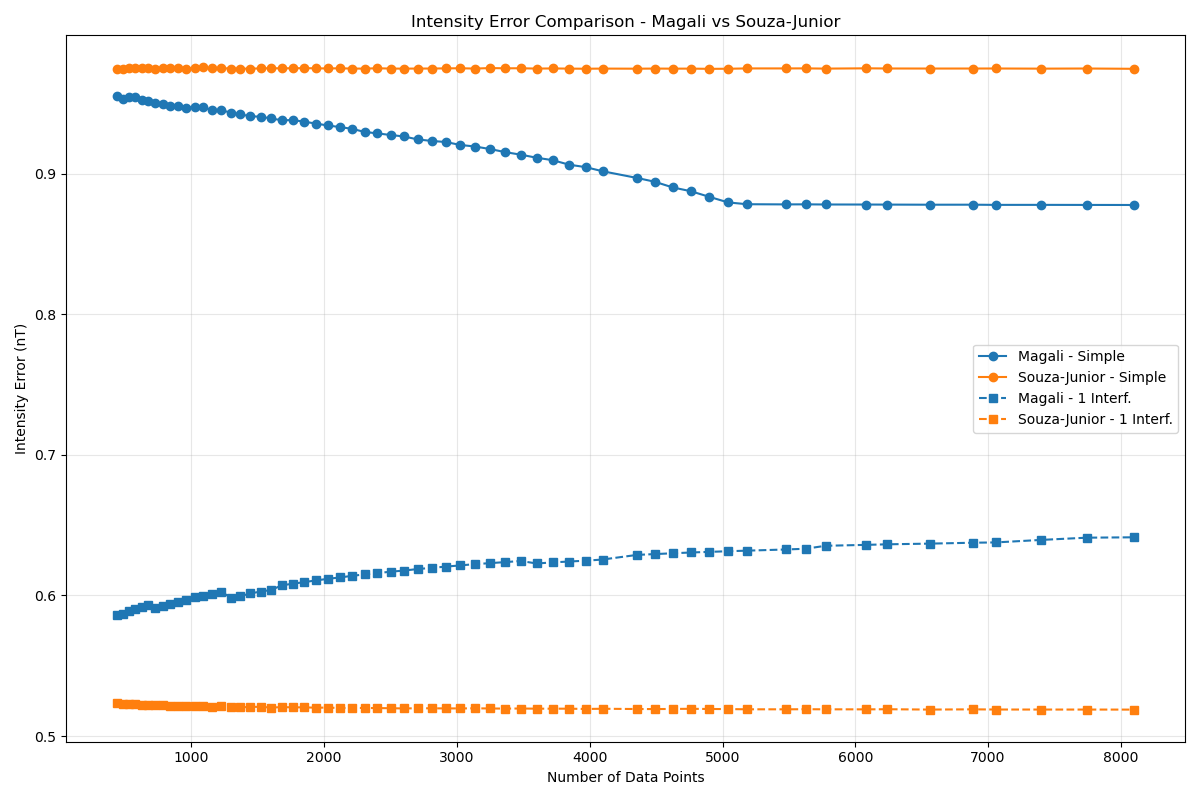
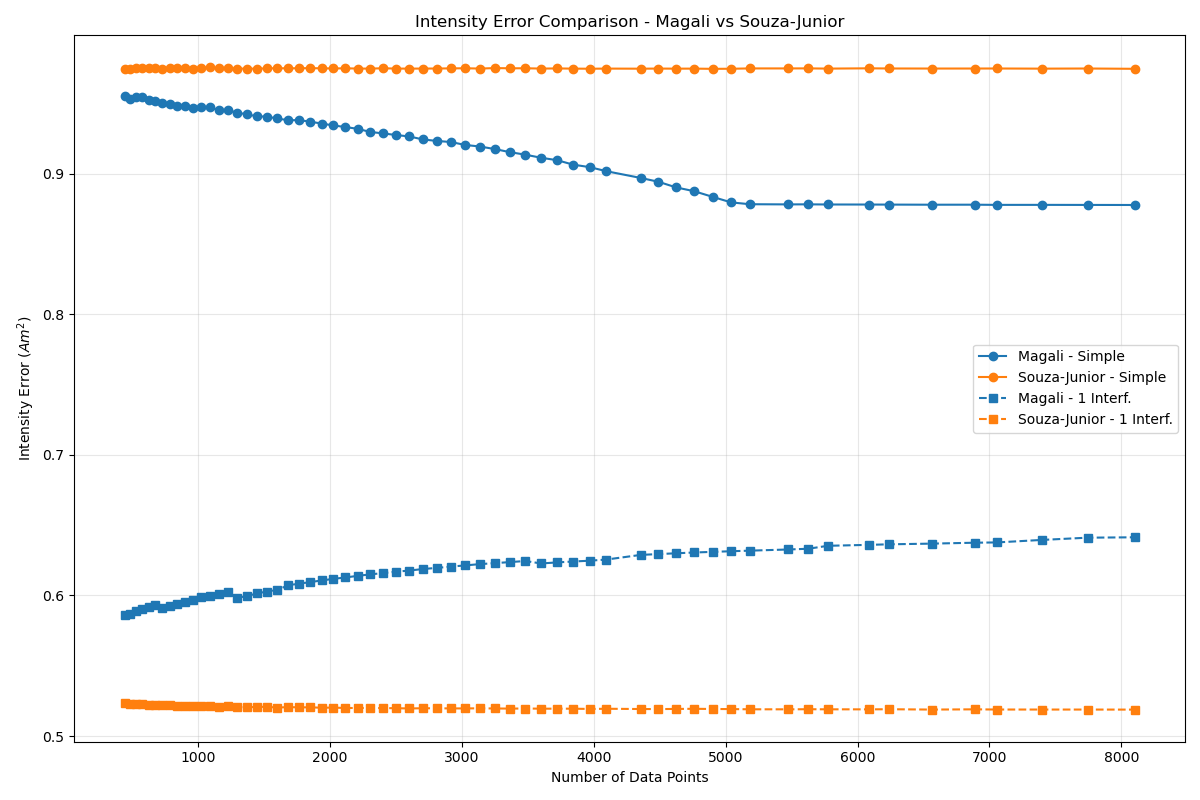
Fix comparison figures

diff --git a/slides.md b/slides.md
@@ -1041,7 +1041,7 @@ COMPLETAR SLIDE
 # Otimização via Levenberg-Marquardt
 <div class="fragment text-left">
 
-- Utilizamos este método porr ser **baseado em gradiente**, sendo melhor optimizado quando comparado a métodos que **independem de derivadas**, como Nelder-Mead, para problemas **suaves e diferenciáveis**
+- Utilizamos este método por ser **baseado em gradiente**, sendo melhor optimizado quando comparado a métodos que **independem de derivadas**, como Nelder-Mead, para problemas **suaves e diferenciáveis**
 
 </div>
 <div class="fragment text-left">
@@ -1052,11 +1052,6 @@ $$\Psi(\mathbf{v}) = \| \mathbf{d}^o - \mathbf{d}(\mathbf{v}) \|^2$$
 
 - $\mathbf{d}^o$: dados observados do campo magnético
 - $\mathbf{d}(\mathbf{v})$: dados preditos
-
-</div>
-<div class="footnote-center">
-
-[Souza-Junior et al. (2025)](https://eartharxiv.org/repository/view/8869/)
 
 </div>
 
@@ -1406,11 +1401,10 @@ $$\left( \mathbf{J}^T \mathbf{J} + \alpha \cdot \mathrm{diag}(\mathbf{J}^T \math
 <div class="row">
 <div class="col">
 
-- **Simple:** Magali apresenta um erro de intensidade menor em comparação a Souza Júnior (2025) e é de **~1 Am^2**
+- **Simple:** Magali apresenta um erro de intensidade menor em comparação a Souza Júnior (2025) e é de ~1 $Am^2$
 
-- **1-Interf.:** Souza-Junior (2025) apresenta um erro de intensidade menor em comparação ao do Magali e é de **~5 Am^2** enquanto Magali é de **~0.6 Am^2**
+- **1-Interf.:** Souza-Junior (2025) apresenta um erro de intensidade menor em comparação ao do Magali e é de ~5 $Am^2$ enquanto Magali é de ~0.6 $Am^2$
 
-CONSERTAR FIGURA
 </div>
 <div class="col-medium"><img src="assets/intensity_error.png" style="width: 100%" ></div>
 </div>
@@ -1448,7 +1442,7 @@ CONSERTAR FIGURA
   - **Magali:** inicia a valor similar ao de Souza-Junior (2025) e decai levemente conforme a densidade de pontos aumenta
 
 </div>
-<div class="col-medium"><img src="assets/angular_error.png" style="width: 100%" ></div>
+<div class="col-medium"><img src="assets/angular_error_simple.png" style="width: 100%" ></div>
 </div>
 
 ===============================================================================
@@ -1461,7 +1455,7 @@ CONSERTAR FIGURA
   - **Magali:** diminui conforme $N$ aumenta em ambos os cenários, se aproximando a **6 graus**
 
 </div>
-<div class="col-medium"><img src="assets/angular_error.png" style="width: 100%" ></div>
+<div class="col-medium"><img src="assets/angular_error_one_interf.png" style="width: 100%" ></div>
 </div>
 
 ===============================================================================
